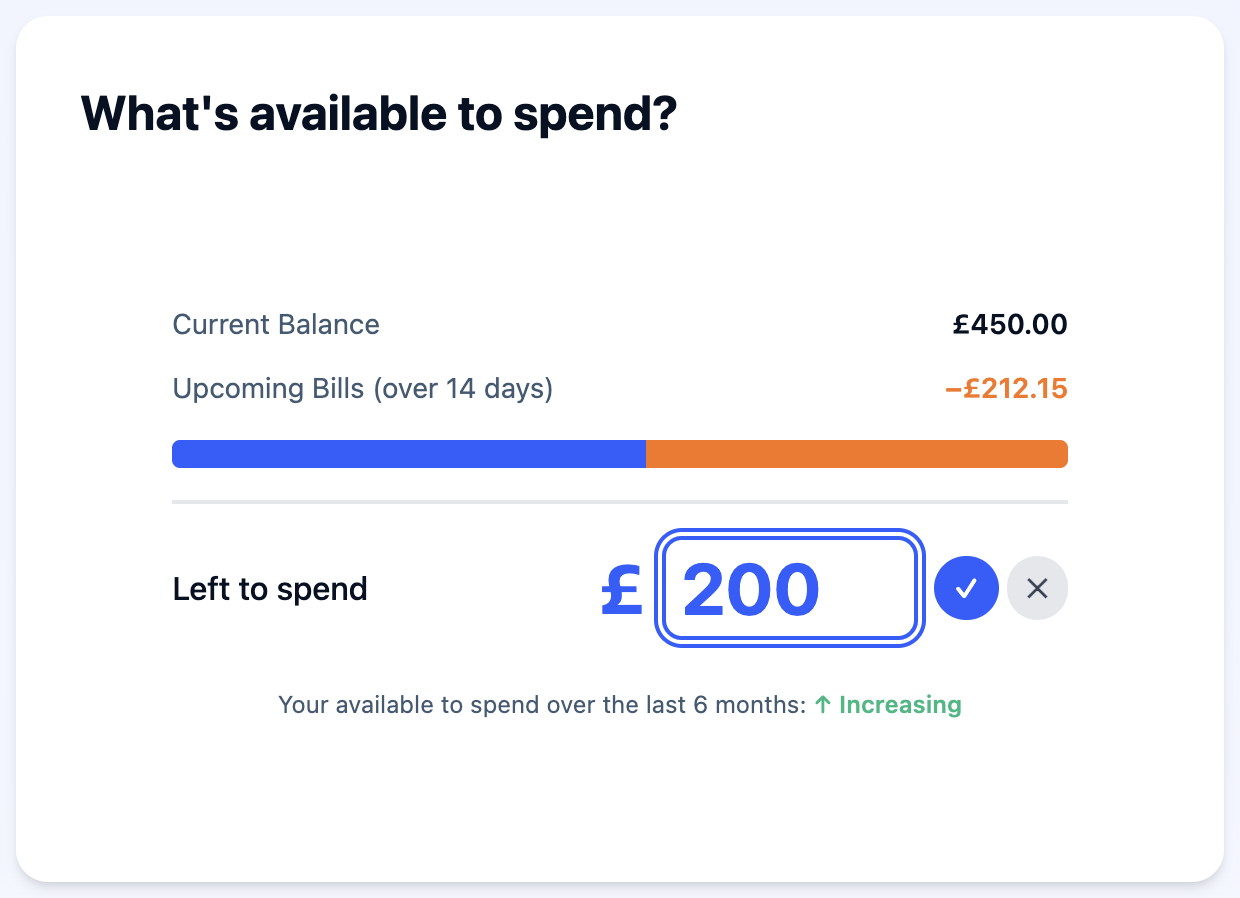
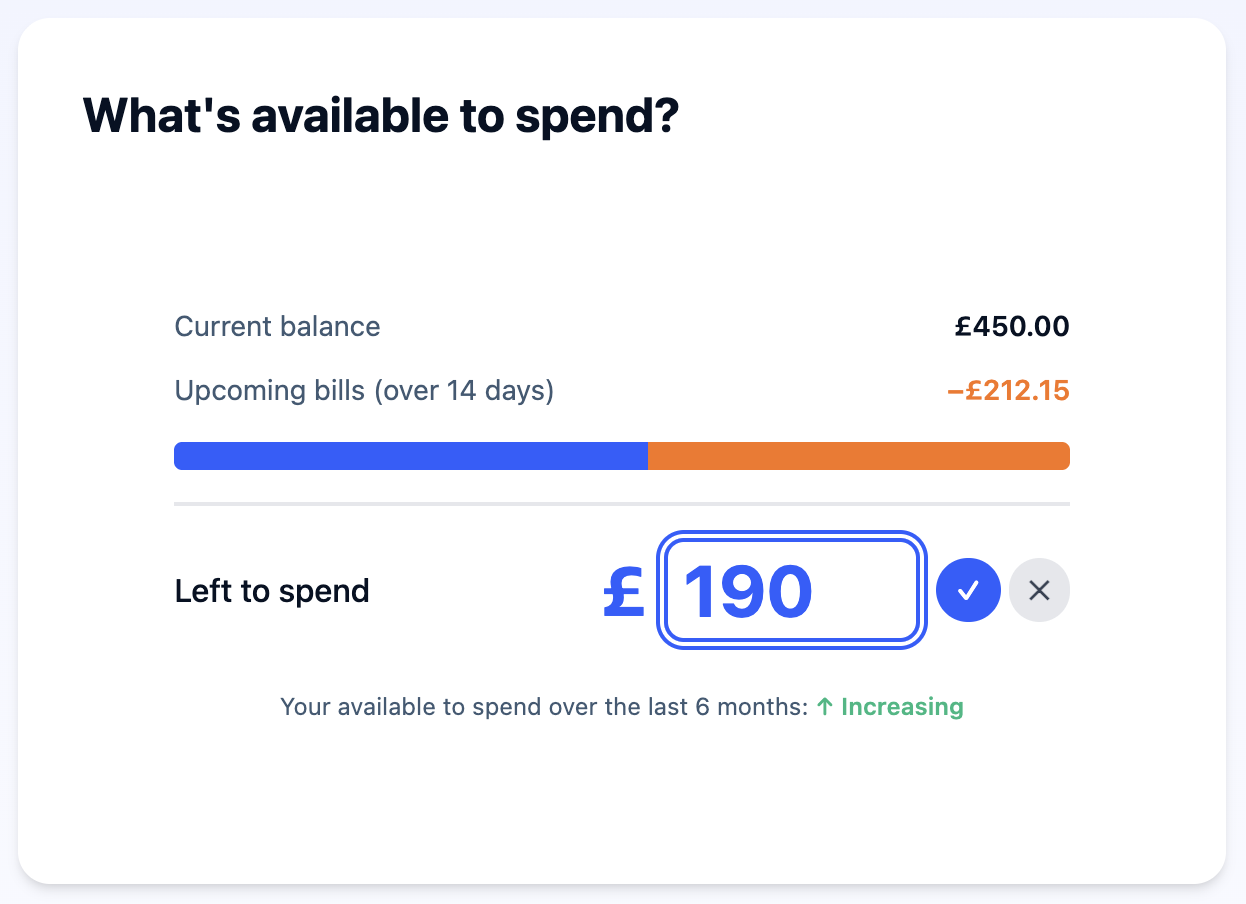
Update FID

diff --git a/case-studies/financial_wellness.html b/case-studies/financial_wellness.html
@@ -126,9 +126,15 @@
                     <h3 style="margin-bottom: 12px;">Users needed to see what they could spend after bills, not after past spending</h3>
                     <p style="color: var(--text-gray); margin-bottom: 16px;">Variable spending made "available to spend" unreliable. Users couldn't trust it. Dashboards subtracted historical spending from income, ignoring committed costs. In testing, nearly every participant made the same mistake: treating the number as safe to spend.</p>
                     <p style="margin-bottom: 16px;"><strong>Design decision:</strong> The Left to Spend panel shows a transparent, editable calculation: Balance − Upcoming Bills = Available to Spend, that users can adjust when their situation changes. Making the logic visible, not just the output, was the differentiator.</p>
-                    <div style="text-align: center;">
-                        <img src="../images/FID_edit_amount.png" alt="Editing the Left to Spend amount" class="zoomable" style="max-width: 360px; width: 100%; height: auto; display: inline-block; border-radius: var(--radius-lg); cursor: pointer; box-shadow: var(--shadow-soft);">
-                        <span style="font-size: 12px; color: var(--text-gray); margin-top: 6px; display: block;">Editing the Left to Spend amount</span>
+                    <div style="display: flex; gap: 16px; justify-content: center; flex-wrap: wrap;">
+                        <div style="text-align: center; flex: 1; min-width: 140px; max-width: 240px;">
+                            <img src="../images/FID_edit_amount.png" alt="Editing the Left to Spend amount" class="zoomable" style="width: 100%; height: auto; display: block; border-radius: var(--radius-lg); cursor: pointer; box-shadow: var(--shadow-soft);">
+                            <span style="font-size: 12px; color: var(--text-gray); margin-top: 6px; display: block;">Editing the amount</span>
+                        </div>
+                        <div style="text-align: center; flex: 1; min-width: 140px; max-width: 240px;">
+                            <img src="../images/FID_edit_amount_confirmation.png" alt="Edit amount confirmation" class="zoomable" style="width: 100%; height: auto; display: block; border-radius: var(--radius-lg); cursor: pointer; box-shadow: var(--shadow-soft);">
+                            <span style="font-size: 12px; color: var(--text-gray); margin-top: 6px; display: block;">Confirmation state</span>
+                        </div>
                     </div>
                 </div>
 

diff --git a/case-studies/financial_wellness_interview.html b/case-studies/financial_wellness_interview.html
@@ -490,9 +490,15 @@
       <h3 style="margin-bottom: 12px;">Show the calculation, not just the output</h3>
       <p>The original "available to spend" was a single derived number that ignored upcoming bills.</p>
       <p><strong>What changed:</strong> A transparent formula with Balance − Upcoming Bills = Left to Spend that users could edit. The differentiator wasn't the prediction itself, but making the logic visible.</p>
-      <div style="text-align:center; margin: 20px 0;">
-        <img src="../images/FID_edit_amount.png" alt="Editing Left to Spend" class="zoomable" style="max-width:300px; width:100%; border-radius: var(--r); box-shadow: var(--shadow);">
-        <p class="caption">Editable Left to Spend, transparency as a trust mechanism</p>
+      <div style="display: flex; gap: 16px; margin: 20px 0; flex-wrap: wrap;">
+        <div style="flex: 1; min-width: 120px; max-width: 220px;">
+          <img src="../images/FID_edit_amount.png" alt="Editing Left to Spend" class="zoomable" style="width:100%; border-radius: var(--r); box-shadow: var(--shadow);">
+          <p class="caption">Editing the amount</p>
+        </div>
+        <div style="flex: 1; min-width: 120px; max-width: 220px;">
+          <img src="../images/FID_edit_amount_confirmation.png" alt="Edit amount confirmation" class="zoomable" style="width:100%; border-radius: var(--r); box-shadow: var(--shadow);">
+          <p class="caption">Confirmation state</p>
+        </div>
       </div>
       <div style="display: grid; grid-template-columns: 1fr 1fr; gap: 12px; margin-top: 16px;">
         <div style="background: rgba(58,138,90,0.07); border-radius: var(--r); padding: 14px 16px;">
